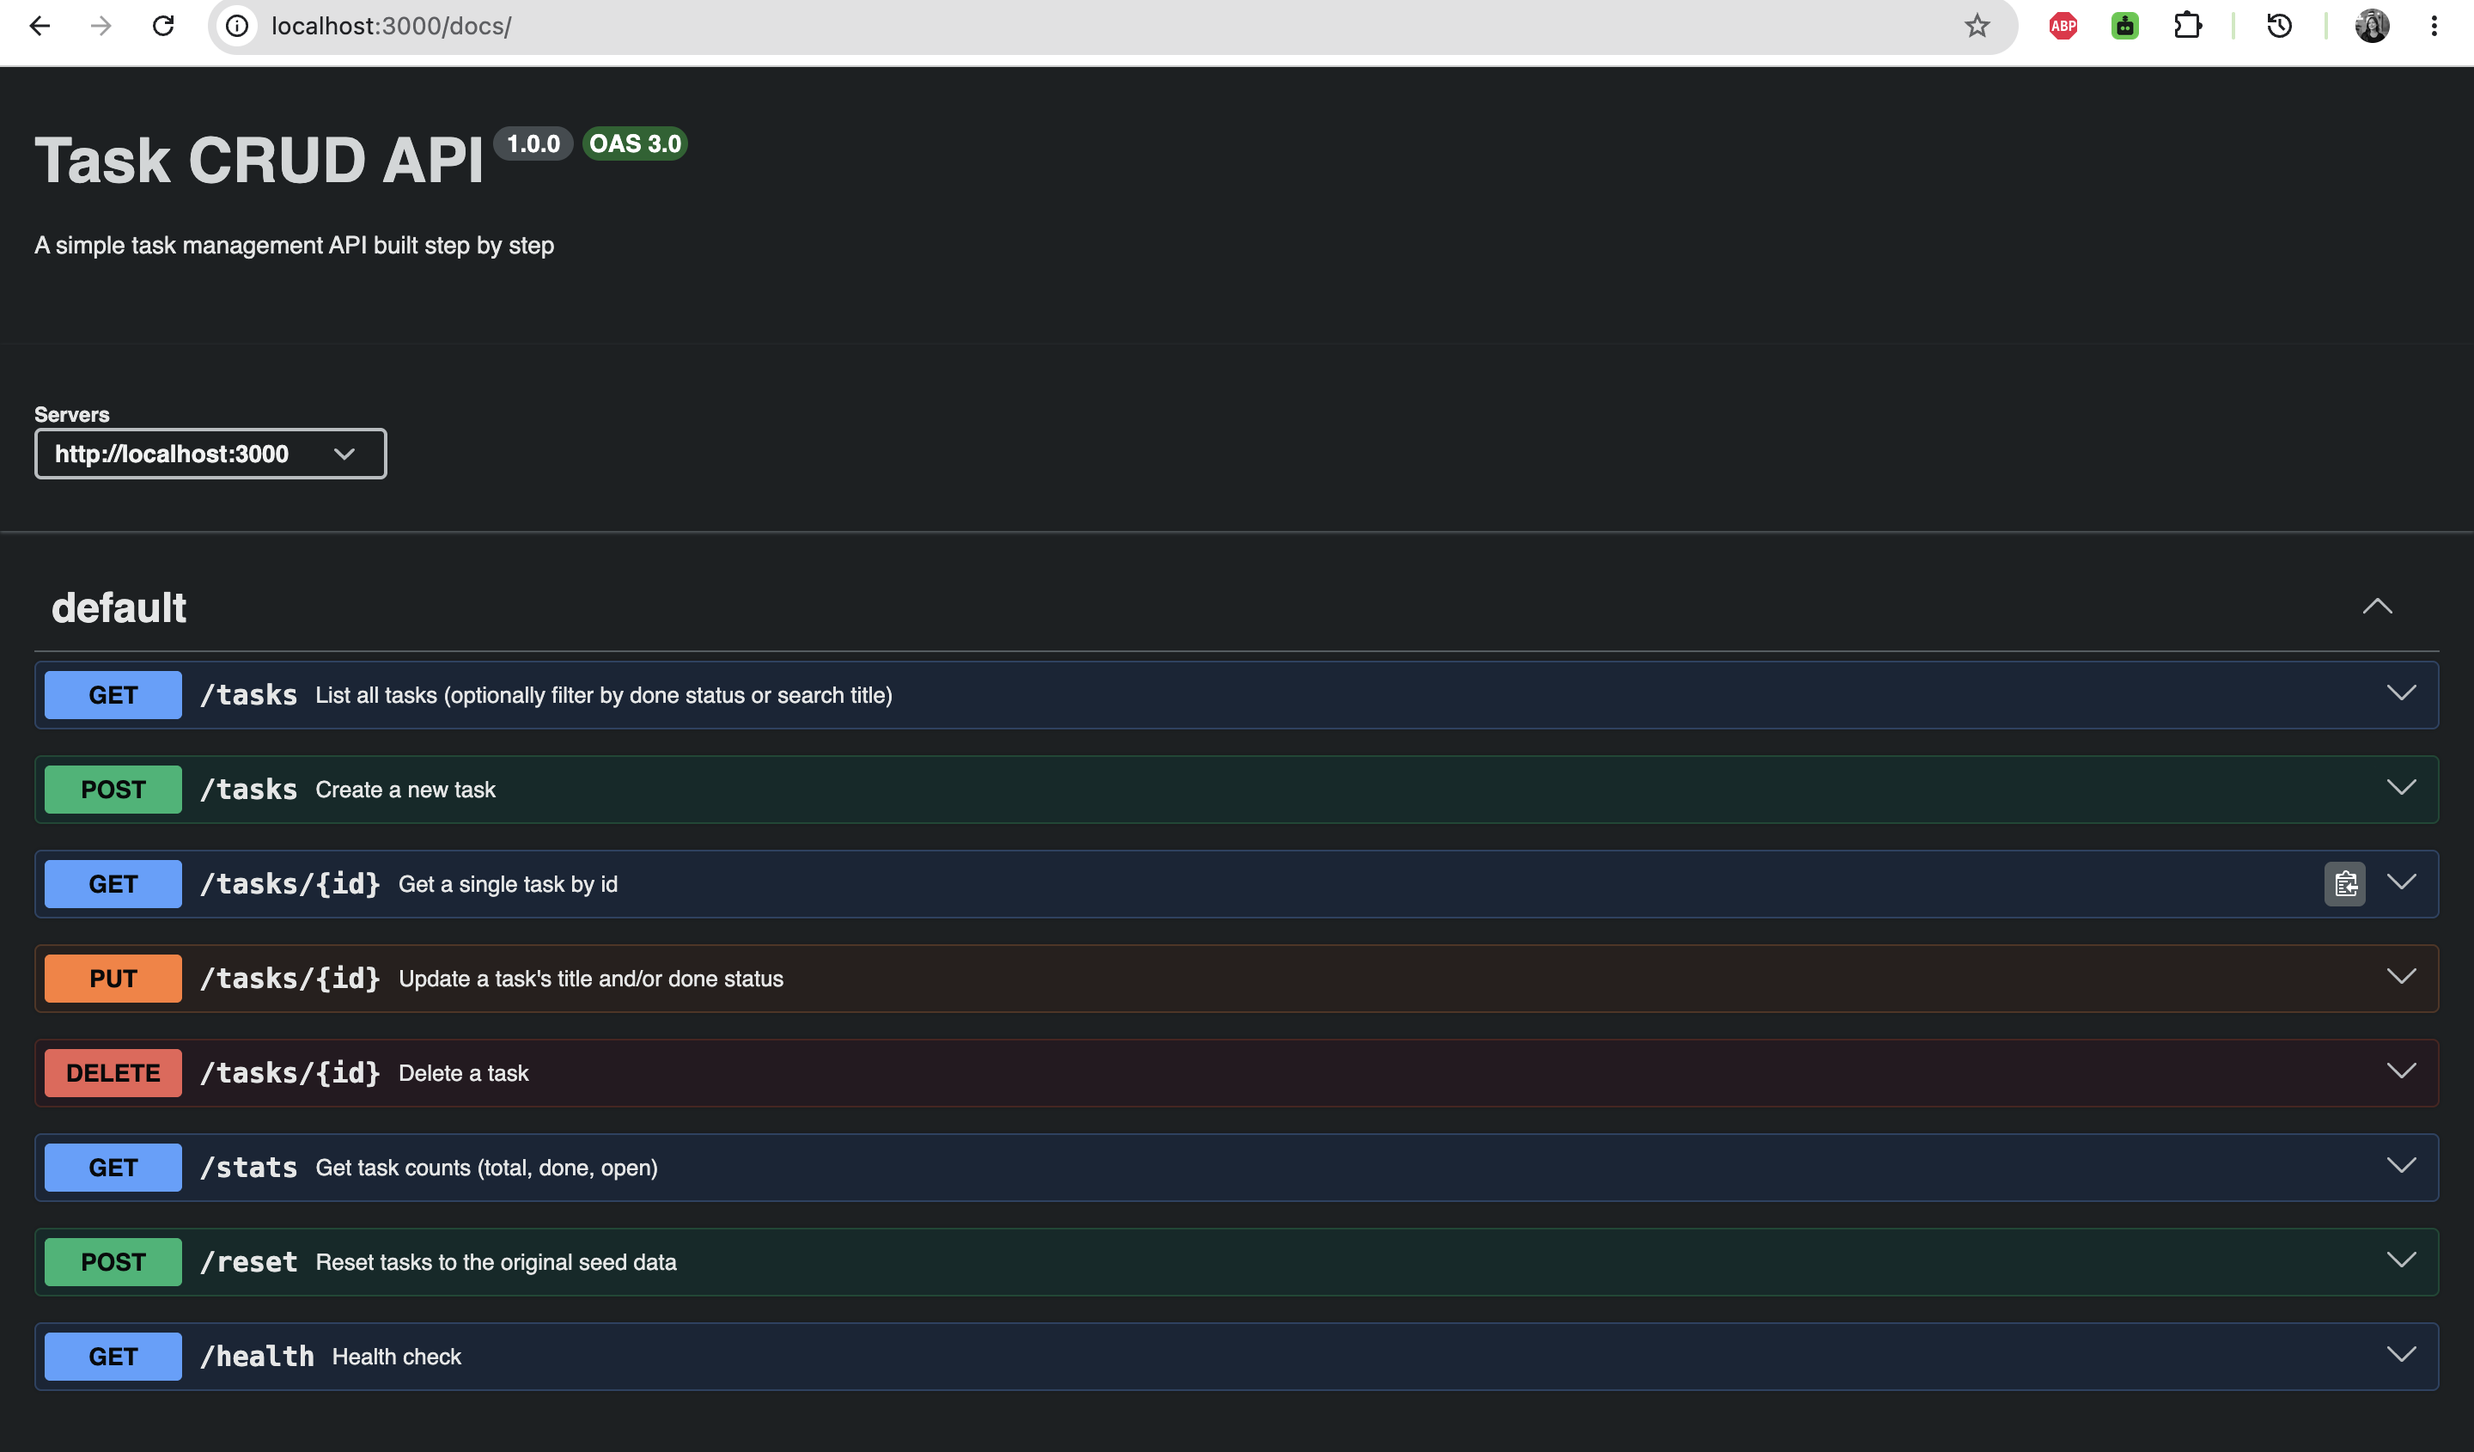
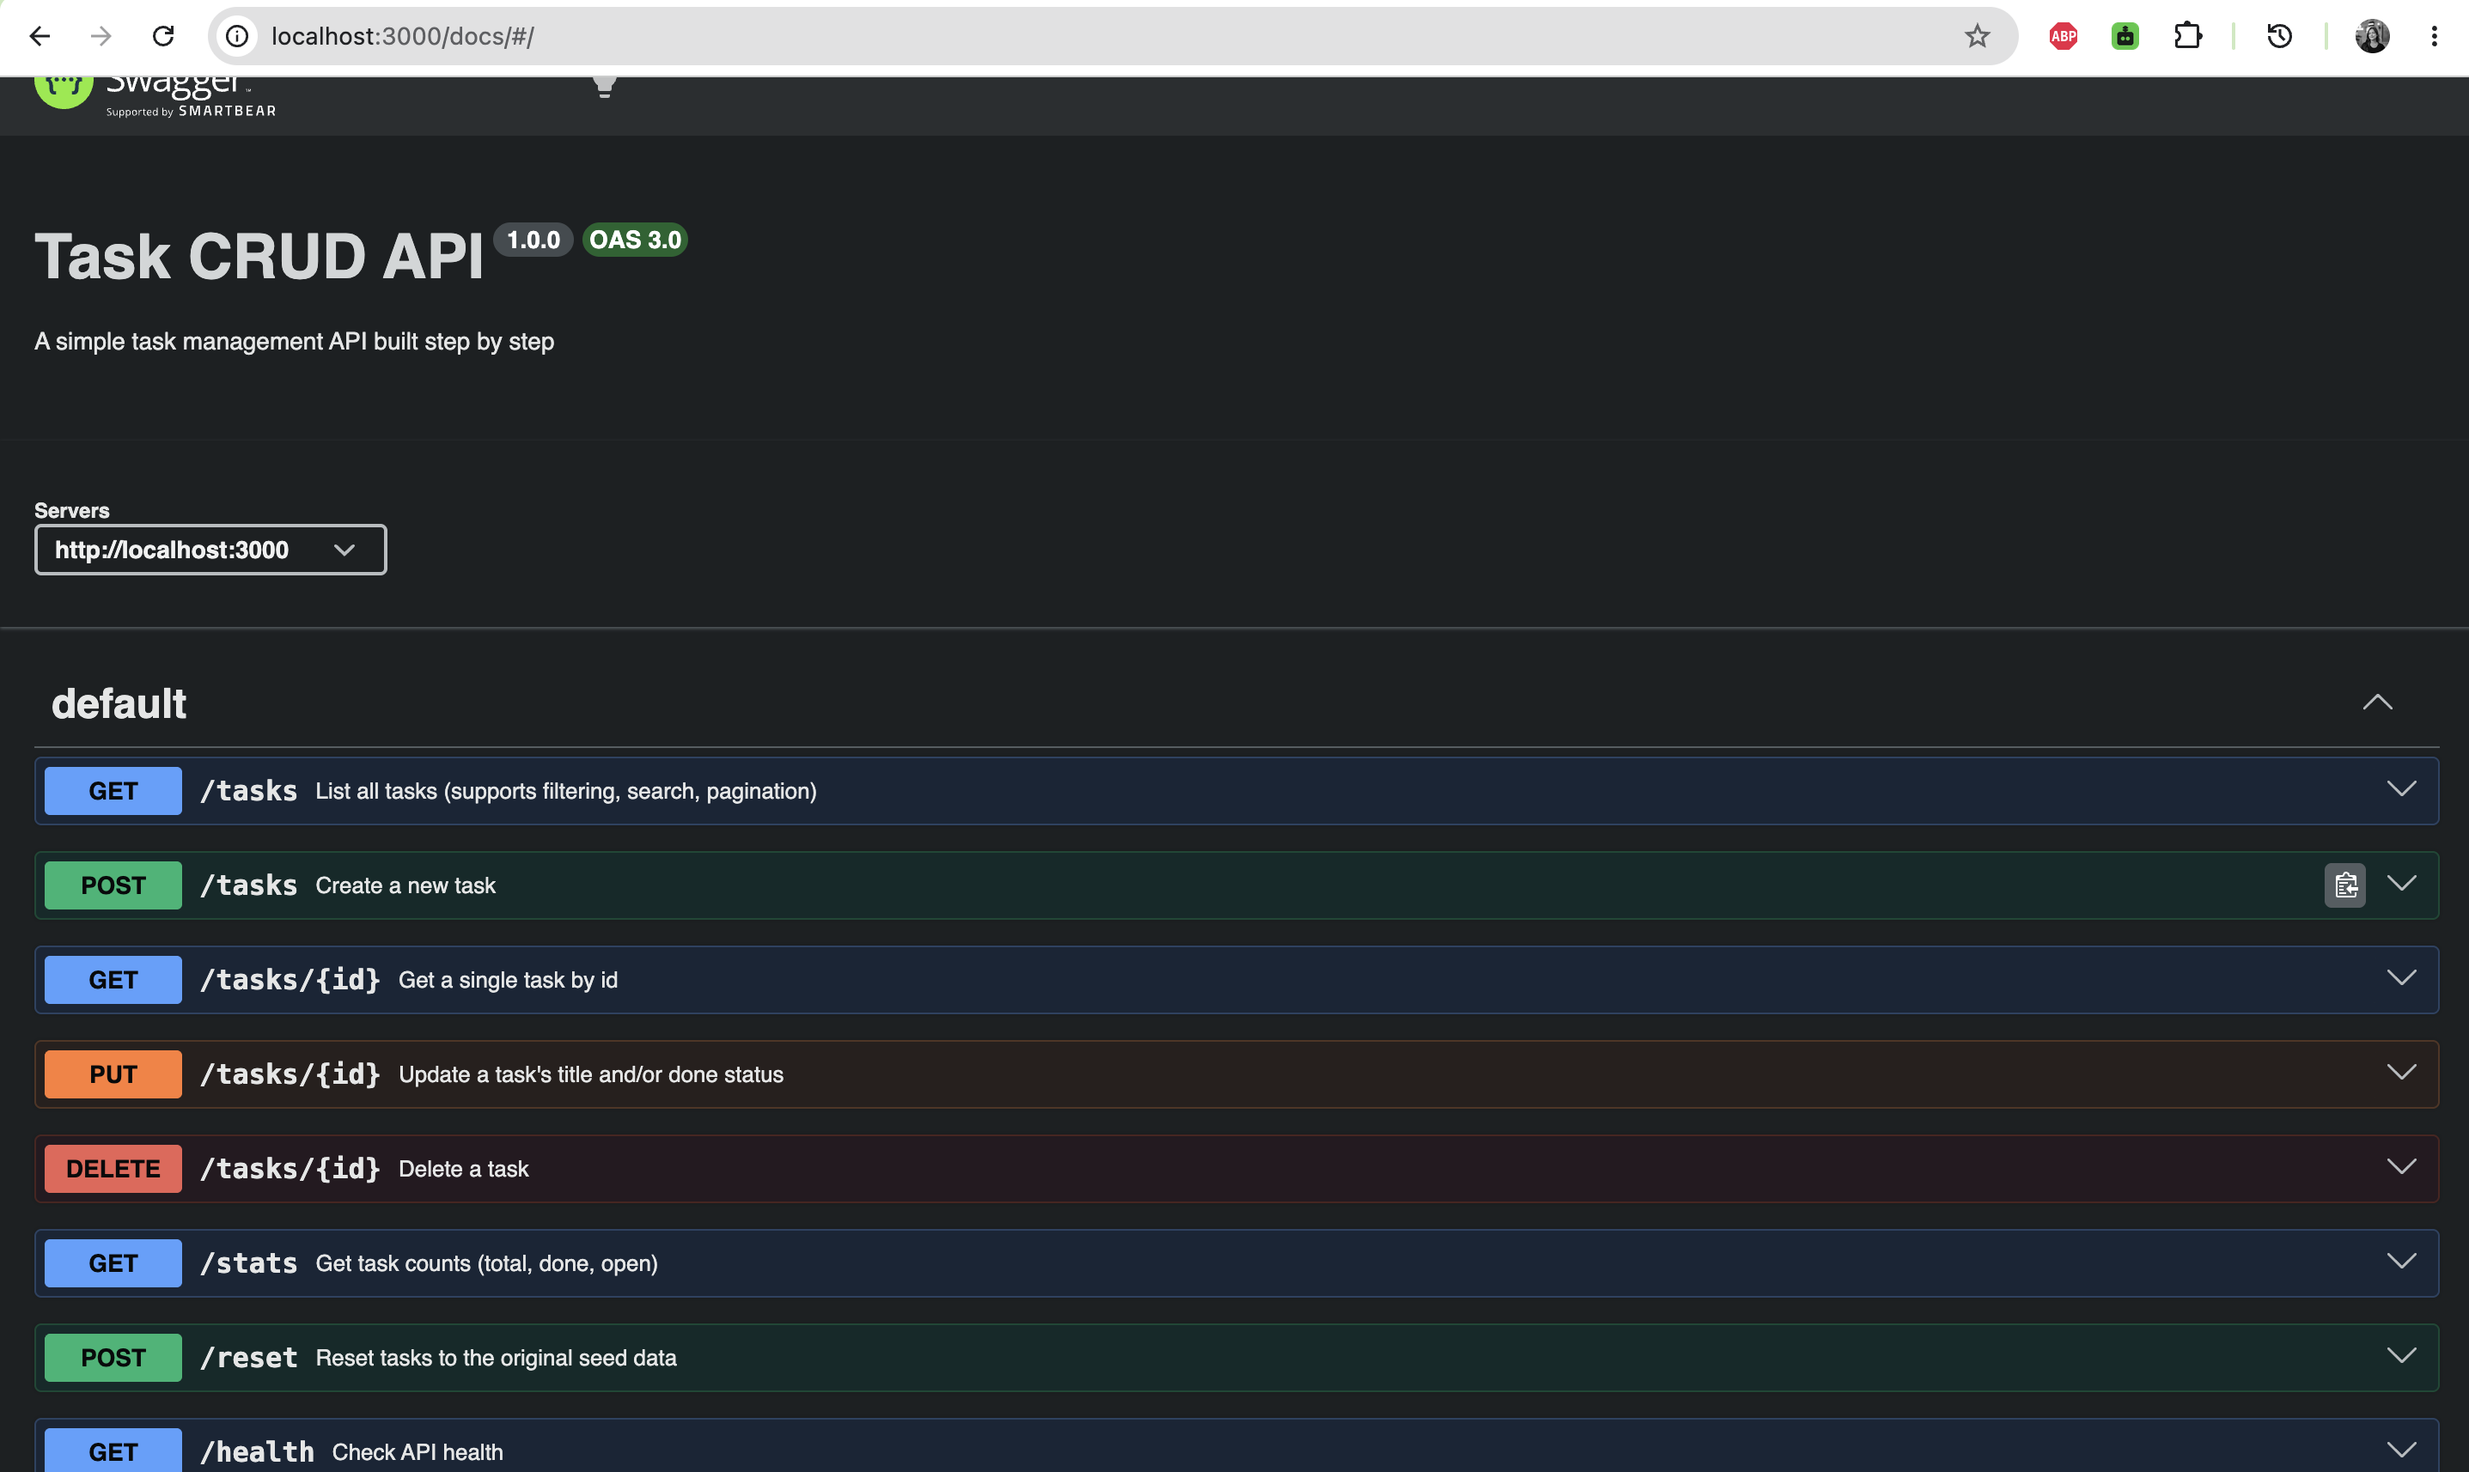
add a swagger-docs in layered structure!

diff --git a/src/routes/taskRoutes.js b/src/routes/taskRoutes.js
@@ -2,10 +2,134 @@ const express = require('express');
 const router = express.Router();
 const taskController = require('../controllers/taskController');
 
+/**
+ * @openapi
+ * /tasks:
+ *   get:
+ *     summary: List all tasks (supports filtering, search, pagination)
+ *     parameters:
+ *       - name: done
+ *         in: query
+ *         schema: { type: boolean }
+ *       - name: search
+ *         in: query
+ *         schema: { type: string }
+ *       - name: limit
+ *         in: query
+ *         schema: { type: integer }
+ *       - name: offset
+ *         in: query
+ *         schema: { type: integer }
+ *     responses:
+ *       200:
+ *         description: A list of tasks
+ *         content:
+ *           application/json:
+ *             schema:
+ *               type: array
+ *               items:
+ *                 $ref: '#/components/schemas/Task'
+ */
+
 router.get('/', taskController.getTasks);
+
+/**
+ * @openapi
+ * /tasks/{id}:
+ *   get:
+ *     summary: Get a single task by id
+ *     parameters:
+ *       - name: id
+ *         in: path
+ *         required: true
+ *         schema: { type: integer }
+ *     responses:
+ *       200:
+ *         description: The task
+ *         content:
+ *           application/json:
+ *             schema:
+ *               $ref: '#/components/schemas/Task'
+ *       404:
+ *         description: Task not found
+ */
+
 router.get('/:id', taskController.getTaskById);
+
+/**
+ * @openapi
+ * /tasks:
+ *   post:
+ *     summary: Create a new task
+ *     requestBody:
+ *       required: true
+ *       content:
+ *         application/json:
+ *           schema:
+ *             type: object
+ *             properties:
+ *               title: { type: string, example: "Buy book" }
+ *             required: [title]
+ *     responses:
+ *       201:
+ *         description: Task created
+ *         content:
+ *           application/json:
+ *             schema:
+ *               $ref: '#/components/schemas/Task'
+ *       400:
+ *         description: Missing or empty title
+ */
+
 router.post('/', taskController.createTask);
+
+/**
+ * @openapi
+ * /tasks/{id}:
+ *   put:
+ *     summary: Update a task's title and/or done status
+ *     parameters:
+ *       - name: id
+ *         in: path
+ *         required: true
+ *         schema: { type: integer }
+ *     requestBody:
+ *       required: true
+ *       content:
+ *         application/json:
+ *           schema:
+ *             type: object
+ *             properties:
+ *               title: { type: string }
+ *               done: { type: boolean }
+ *     responses:
+ *       200:
+ *         description: Updated task
+ *       400:
+ *         description: Invalid or empty body
+ *       404:
+ *         description: Task not found
+ */
+
 router.put('/:id', taskController.updateTask);
+
+/**
+ * @openapi
+ * /tasks/{id}:
+ *   delete:
+ *     summary: Delete a task
+ *     parameters:
+ *       - name: id
+ *         in: path
+ *         required: true
+ *         schema: { type: integer }
+ *     responses:
+ *       204:
+ *         description: Task deleted, no content
+ *       404:
+ *         description: Task not found
+ */
+
 router.delete('/:id', taskController.deleteTask);
 
 

diff --git a/src/config/swagger.js b/src/config/swagger.js
@@ -1,0 +1,29 @@
+const swaggerJsDoc = require('swagger-jsdoc');
+
+const swaggerOptions = {
+    definition: {
+        openapi: '3.0.0',
+        info: {
+            title: 'Task CRUD API',
+            version: '1.0.0',
+            description: 'A simple task management API built step by step'
+        },
+        servers: [{ url: 'http://localhost:3000' }],
+        components: {
+            schemas: {
+                Task: {
+                    type: 'object',
+                    properties: {
+                        id: { type: 'integer', example: 1 },
+                        title: { type: 'string', example: 'Buy Book' },
+                        done: { type: 'boolean', example: false }
+                    }
+                }
+            }
+        }
+    },
+    apis: ['./src/routes/*.js'] //all route files to JSDoc
+};
+
+const swaggerSpec = swaggerJsDoc(swaggerOptions);
+module.exports = swaggerSpec;

diff --git a/index.js b/index.js
@@ -136,7 +136,7 @@ app.get('/tasks/:id', (req, res) => {
  *           schema:
  *             type: object
  *             properties:
- *               title: { type: string, example: "Buy milk" }
+ *               title: { type: string, example: "Buy book" }
  *             required: [title]
  *     responses:
  *       201:
@@ -291,8 +291,8 @@ app.post('/reset', (req, res) => {
   tasks.length = 0;
   tasks.push(
     { id: 1, title: "Learn Node.js", done: true },
-    { id: 2, title: "Learn Express.js", done: true },
-    { id: 3, title: "Learn Middleware", done: false }
+    { id: 2, title: "Understand Express.js", done: true },
+    { id: 3, title: "Middleware Concept", done: false }
   );
   res.json({ message: "Tasks reset", tasks });
 });

diff --git a/src/routes/statsRoutes.js b/src/routes/statsRoutes.js
@@ -2,6 +2,24 @@ const express = require('express');
 const router = express.Router();
 const statsService = require('../services/statsService');
 
+/**
+ * @openapi
+ * /stats:
+ *   get:
+ *     summary: Get task counts (total, done, open)
+ *     responses:
+ *       200:
+ *         description: Task statistics
+ *         content:
+ *           application/json:
+ *             schema:
+ *               type: object
+ *               properties:
+ *                 total: { type: integer, example: 7 }
+ *                 done: { type: integer, example: 3 }
+ *                 open: { type: integer, example: 4 }
+ */
+
 router.get('/', (req, res) => {
     res.json(statsService.getStats());
 });

diff --git a/app.js b/app.js
@@ -1,14 +1,19 @@
 const express = require('express');
 const app = express();
+
 const taskRouters = require('./src/routes/taskRoutes');
 const statsRouters = require('./src/routes/statsRoutes');
 const healthRouters = require('./src/routes/healthRoutes');
 const resetRouters = require('./src/routes/resetRoutes');
 
+const swaggerSpec = require('./src/config/swagger');
+const swaggerUi = require('swagger-ui-express');
+
 const errorhandling = require('./src/middleware/error-handling');
 
 
 app.use(express.json()); //middleware to parse json body
+app.use('/docs', swaggerUi.serve, swaggerUi.setup(swaggerSpec));
 
 app.get('/', (req, res) => {
     res.send("Hello Server!!");

diff --git a/src/routes/healthRoutes.js b/src/routes/healthRoutes.js
@@ -1,6 +1,24 @@
 const express = require('express');
 const router = express.Router();
 
+/**
+ * @swagger
+ * /health:
+ *   get:
+ *     summary: Check API health
+ *     description: Returns the health status of the API
+ *     responses:
+ *       200:
+ *         description: API is healthy
+ *         content:
+ *           application/json:
+ *             schema:
+ *               type: object
+ *               properties:
+ *                 status:
+ *                   type: string
+ *                   example: OK
+ */
 router.get('/health', (req, res) => {
     res.json({ status: 'OK' });
 });

diff --git a/src/routes/resetRoutes.js b/src/routes/resetRoutes.js
@@ -3,6 +3,16 @@ const router = express.Router();
 
 const taskController = require('../controllers/resetController');
 
+/**
+ * @openapi
+ * /reset:
+ *   post:
+ *     summary: Reset tasks to the original seed data
+ *     responses:
+ *       200:
+ *         description: Tasks reset
+ */
+
 router.post('/', taskController.resetTasks);
 
 module.exports = router;
